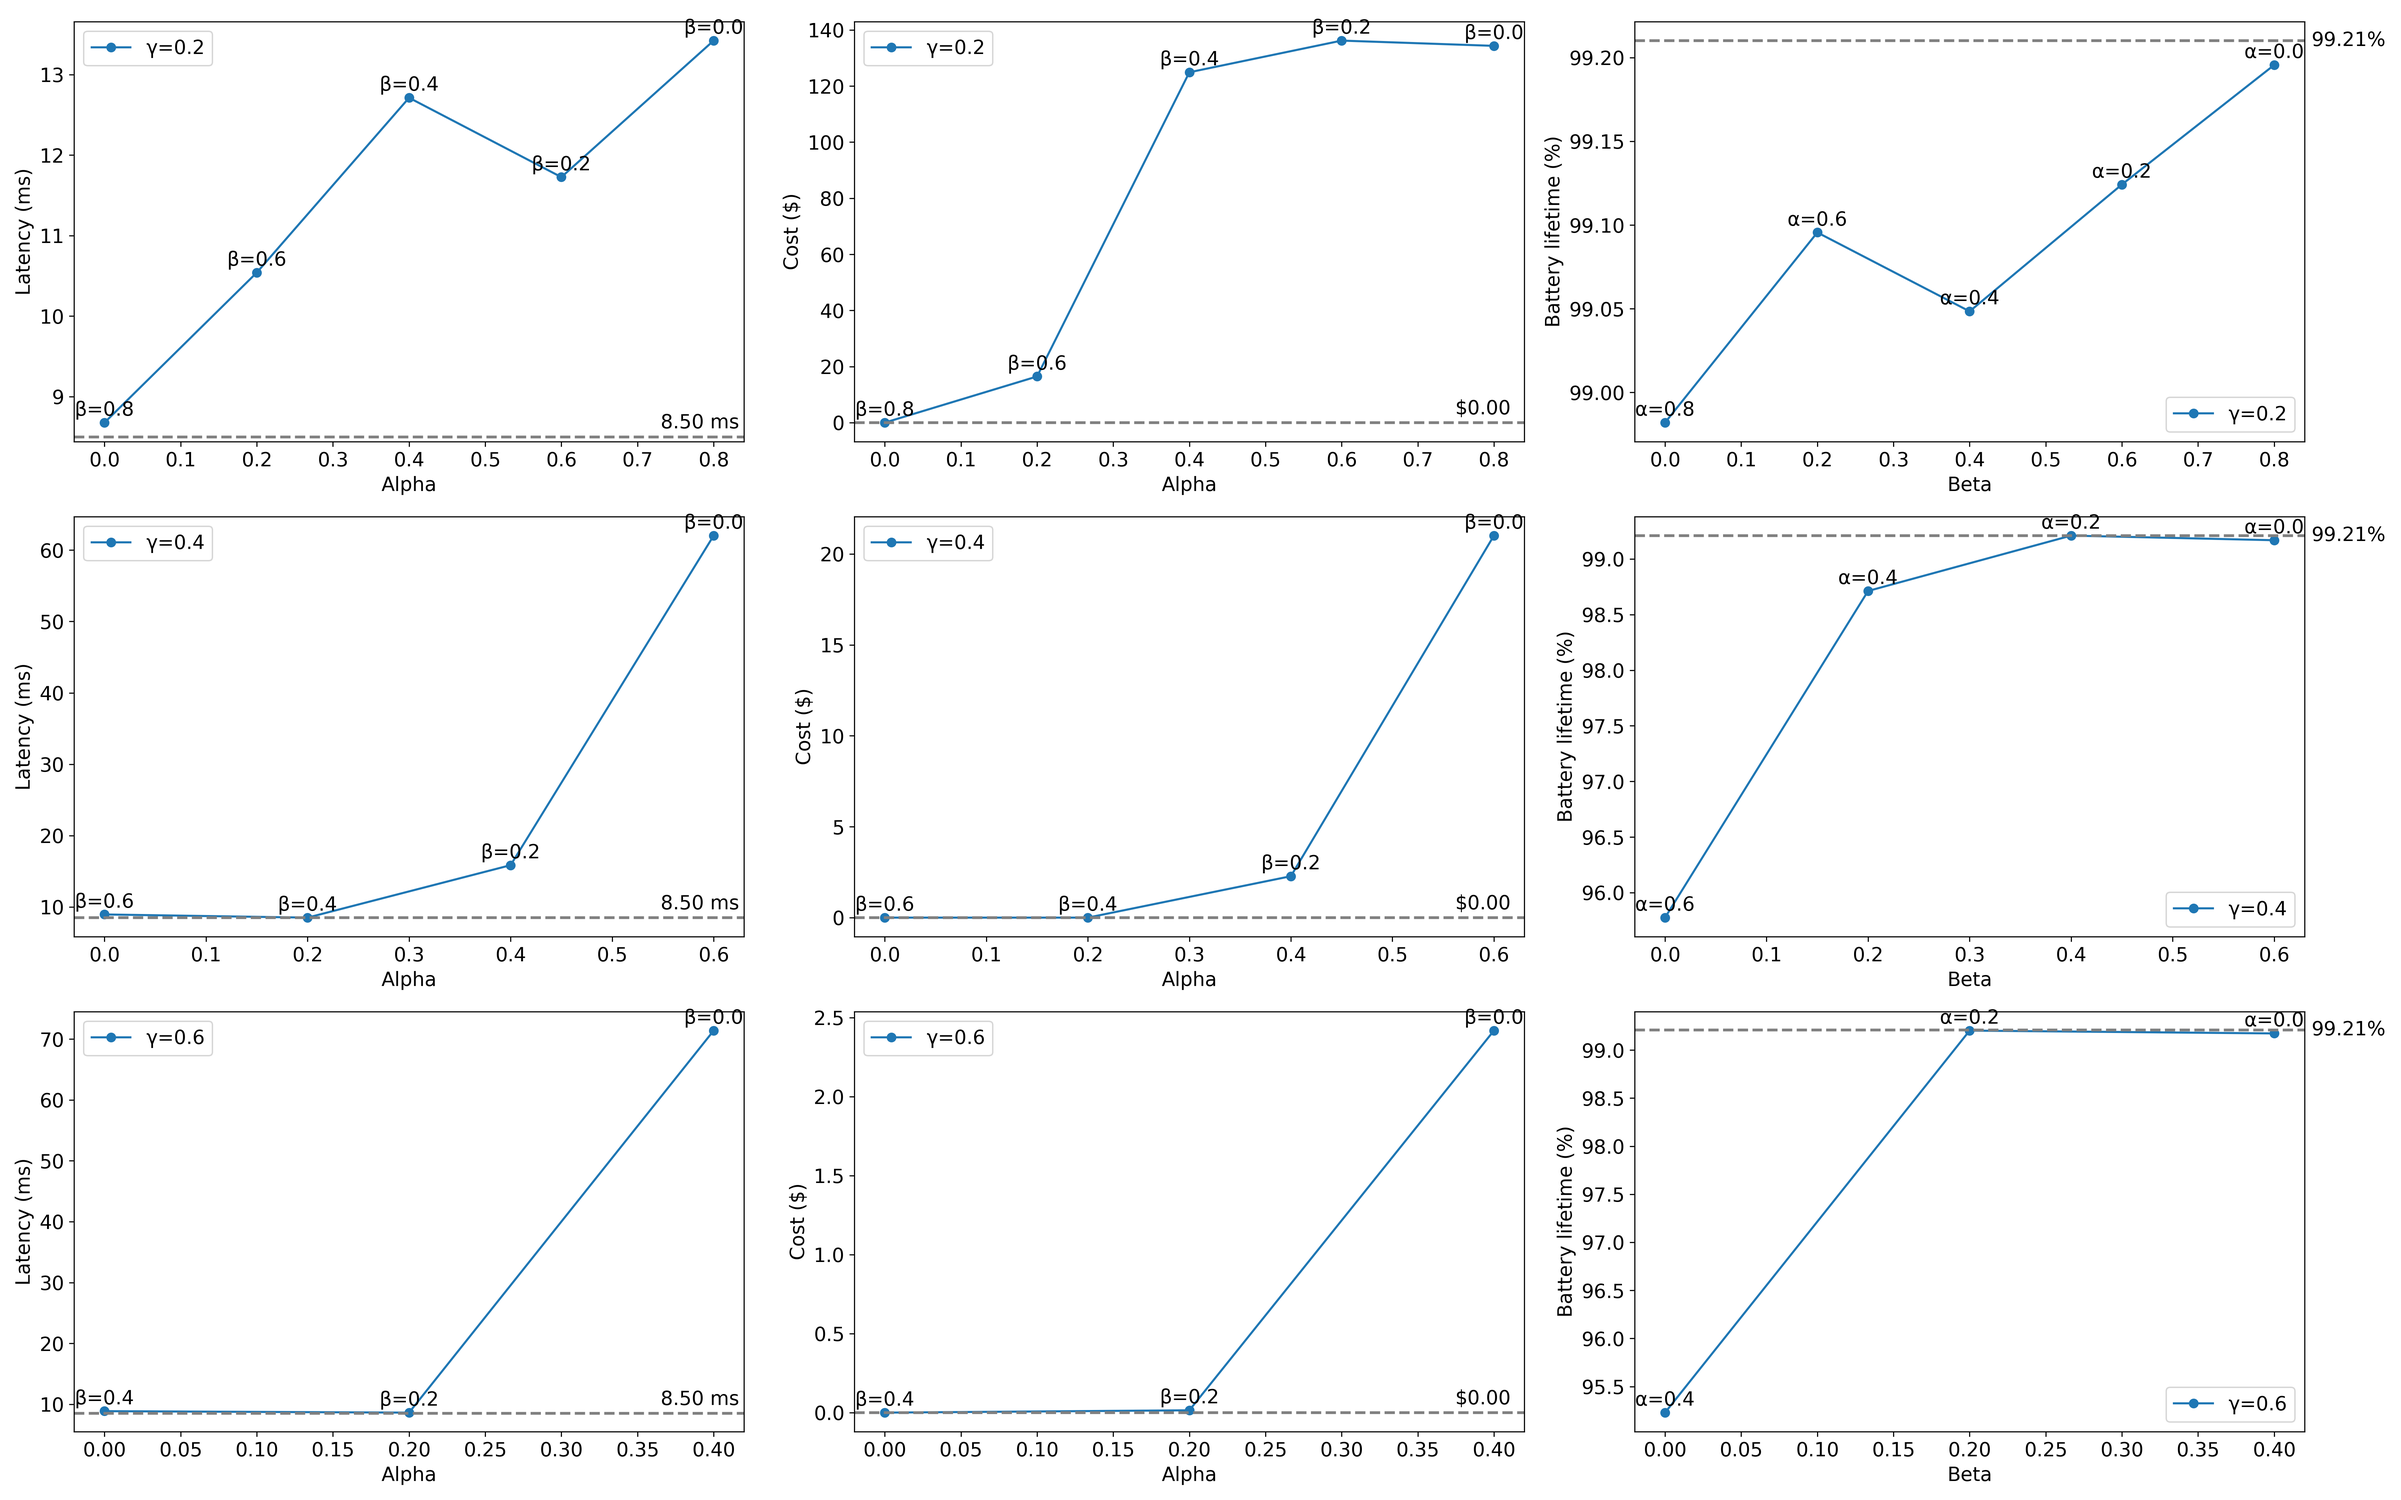
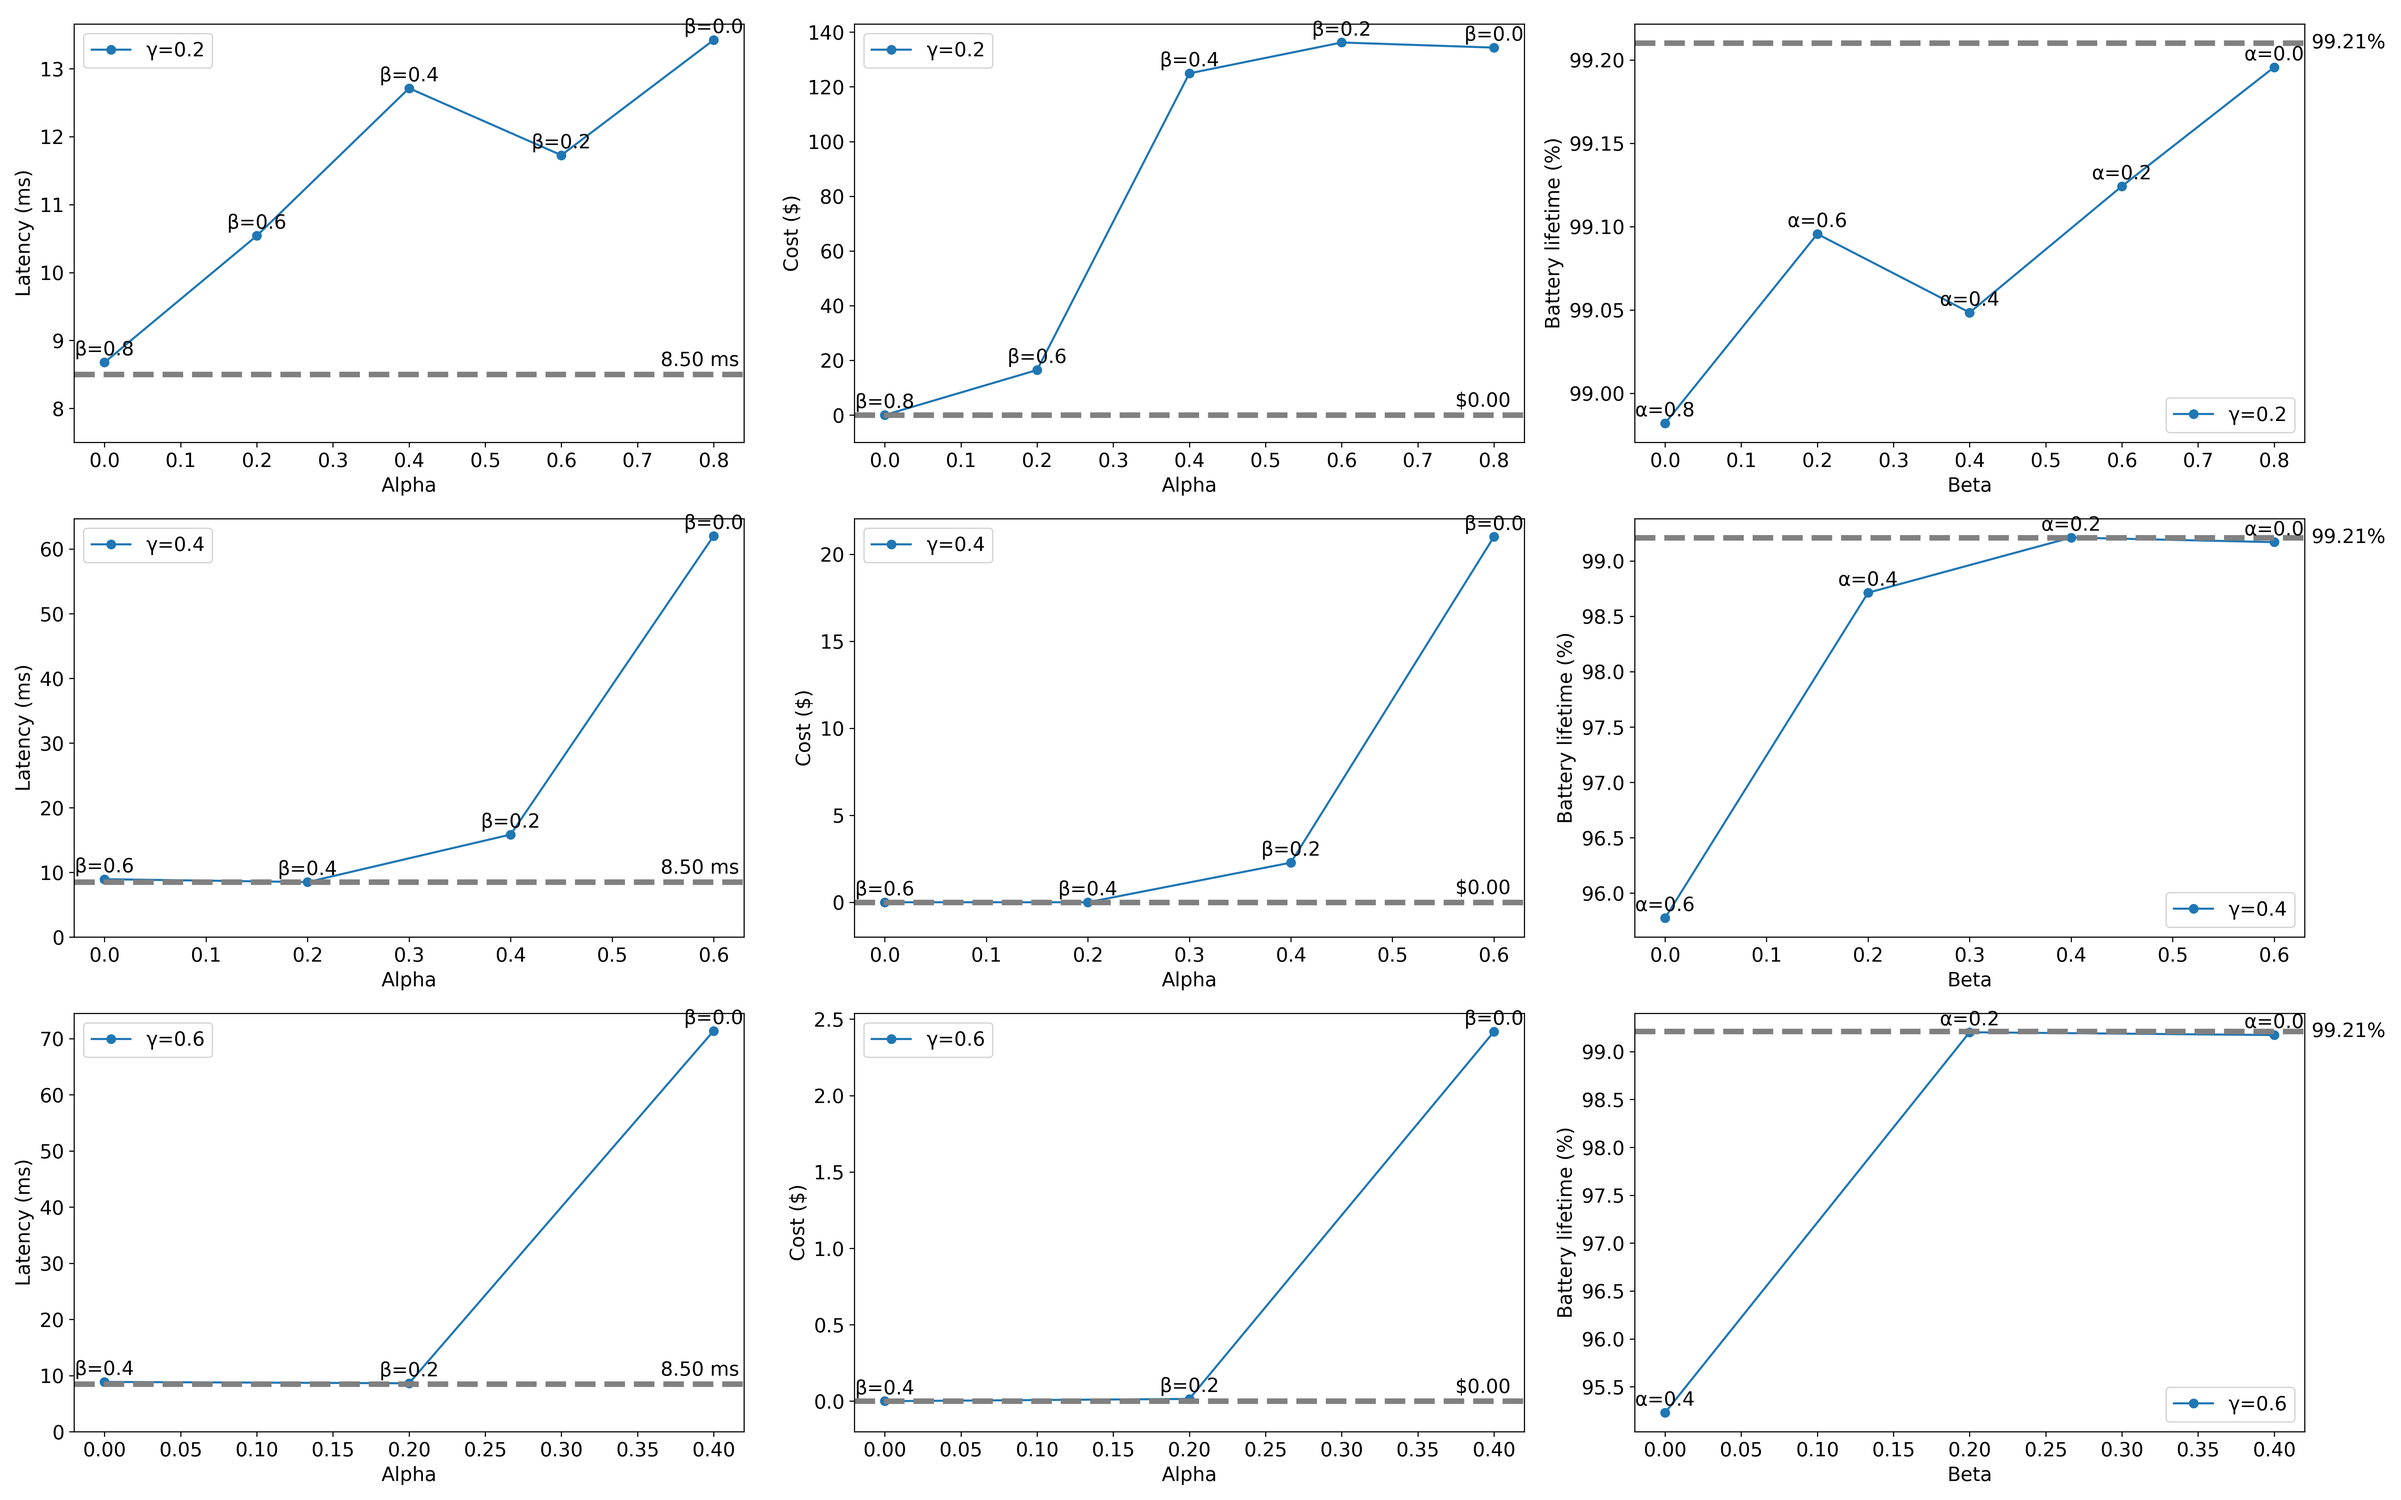
Adjusting y-axis range that reference lines are not too near to x-axis

diff --git a/src/sensitivity_plotting.py b/src/sensitivity_plotting.py
@@ -15,7 +15,7 @@ TICK_LABEL_FONTSIZE = 14
 LEGEND_FONTSIZE = 14
 FIGURE_WIDTH = 24
 FIGURE_HEIGHT = 5  # landscape orientation
-REFERENCE_LINE_WIDTH = 2
+REFERENCE_LINE_WIDTH = 4
 REFERENCE_LINE_COLOR = "grey"
 
 # Folder and app configurations
@@ -244,6 +244,10 @@ for app in apps:
                             ha='center', fontsize=ANNOTATION_FONTSIZE)
         ax_lat.set_xlabel("Alpha", fontsize=AXIS_LABEL_FONTSIZE)
         ax_lat.set_ylabel("Latency (ms)", fontsize=AXIS_LABEL_FONTSIZE)
+        if idx == 0:
+          ax_lat.set_ylim(bottom=7.5)
+        else:
+          ax_lat.set_ylim(bottom=0)
         ax_lat.axhline(
             best_latency,
             color=REFERENCE_LINE_COLOR,
@@ -274,6 +278,13 @@ for app in apps:
                              ha='center', fontsize=ANNOTATION_FONTSIZE)
         ax_cost.set_xlabel("Alpha", fontsize=AXIS_LABEL_FONTSIZE)
         ax_cost.set_ylabel("Cost ($)", fontsize=AXIS_LABEL_FONTSIZE)
+        if idx == 0:
+            ax_cost.set_ylim(bottom=-10)
+        elif idx == 1:
+            ax_cost.set_ylim(bottom=-2)
+        elif idx == 2:
+            ax_cost.set_ylim(bottom=-0.2)
+
         ax_cost.axhline(
             best_cost,
             color=REFERENCE_LINE_COLOR,
